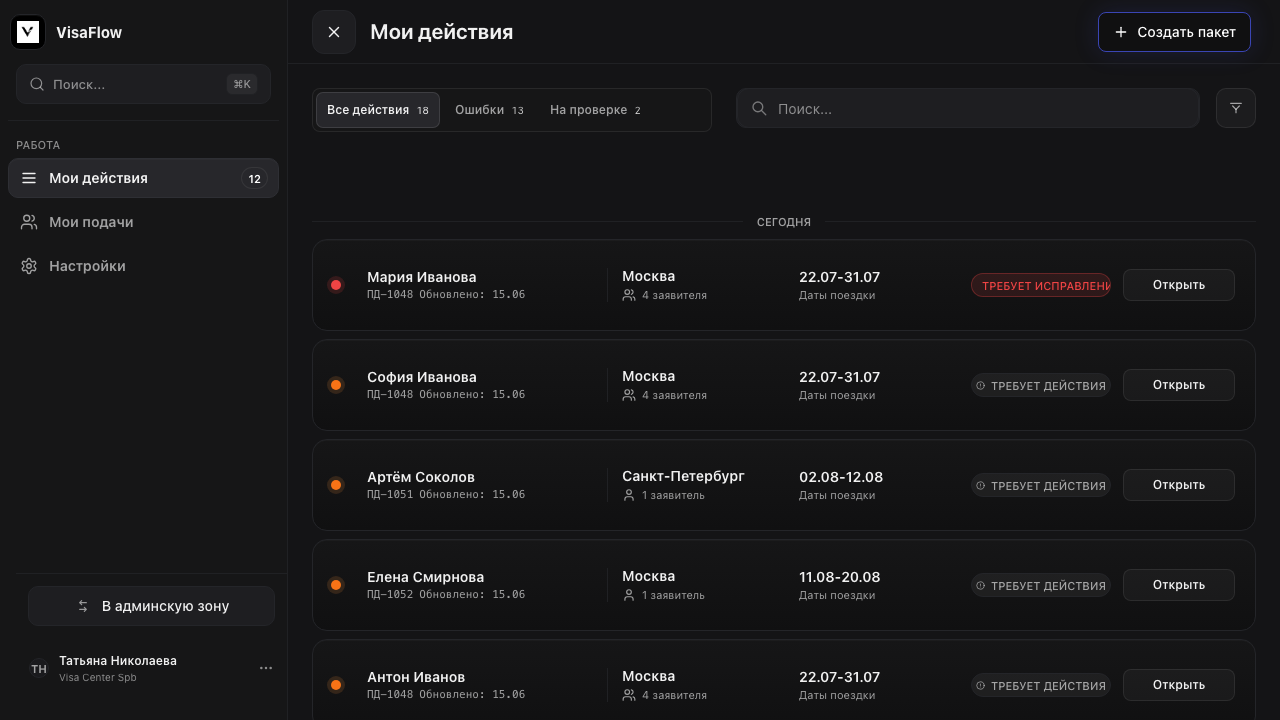
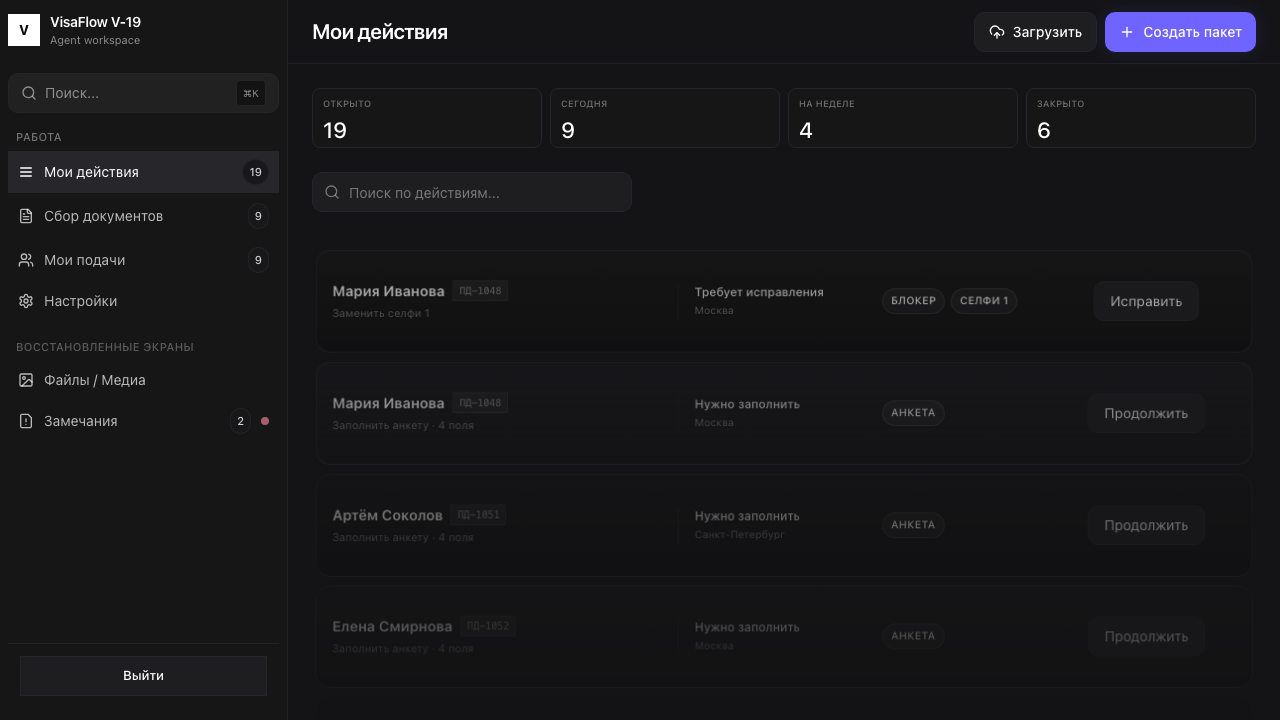
fix(release): close local performance gate proof
Что изменено:
- Отфильтрованы local-dev access requests до pending, чтобы approved/rejected заявки не возвращались в admin queue.
- Обновлены Playwright helpers под текущий AccessGate, который стартует с заявки на доступ.
- Синхронизирован agent app-smoke slice с текущей CommandCenter surface и сохранены свежие QA screenshots.

Зачем:
- Закрыть local verify:performance gate для V-19 10-user pilot path и сохранить browser proof для admin approval/settings flow.

Как:
- listPendingAccessRequests() возвращает только status === pending и сортирует по newest first.
- E2E helpers явно переключают AccessGate в нужный режим перед login/register действиями.
- Smoke assertions привязаны к текущим видимым controls/headings вместо устаревших selectors.

Проверка:
- Tests: pass
- npm run typecheck
- npx vitest run tests/unit/exportWorkbook.spec.ts tests/unit/exportService.spec.ts tests/unit/settingsScreen.spec.tsx tests/unit/authRegistration.spec.ts
- npm run build
- npm run verify:performance
- npx playwright test tests/e2e/v19-registration-admin-approval.spec.ts --project=chromium --reporter=line -g "new agent request stays pending until admin approves"
- npx playwright test tests/e2e/app-smoke.spec.ts --project=chromium --reporter=line -g "agent surfaces expose actions and submissions cockpit"
- git diff --check
- git diff --cached --check

Риск: Low
- Затронуты local-dev access queue filter и тестовые helpers/assertions; production Supabase approval path не менялся.

diff --git a/tests/e2e/app-smoke.spec.ts b/tests/e2e/app-smoke.spec.ts
@@ -763,14 +763,11 @@ test.describe("V-19 operations workspace", () => {
     await expect(page.getByRole("button", { name: "Мои подачи" })).toBeVisible();
     await expect(page.getByRole("button", { name: "Настройки" })).toBeVisible();
     await expect(page.getByText("Входящие", { exact: true })).toHaveCount(0);
-    await expect(page.getByRole("region", { name: "Мои действия" })).toBeVisible();
-    await expect(page.getByTestId("agent-actions-cockpit")).toBeVisible();
-    await expect(
-      page
-        .getByTestId("agent-action-queue-item")
-        .or(page.locator(".v19-actions-timeline-event"))
-        .first(),
-    ).toBeVisible();
+    await expect(page.locator('input[placeholder="Поиск по действиям..."]')).toBeVisible();
+    await expectAtLeastOneVisible(
+      page.getByRole("button", { name: /^(Исправить|Продолжить|Добавить)$/ }),
+      "No visible agent action CTA matched.",
+    );
     await page.screenshot({
       fullPage: true,
       path: "docs/qa/v19-agent-actions-restored-desktop.png",
@@ -779,53 +776,26 @@ test.describe("V-19 operations workspace", () => {
     await clickWorkspaceButton(page, /Мои подачи/);
     await expect(page.getByRole("heading", { name: "Мои подачи" })).toBeVisible();
     await expectAtLeastOneVisible(
-      page.getByRole("button", { name: "Новая подача" }),
+      page.getByRole("button", { name: "Создать пакет" }),
       "No visible create-submission button matched.",
     );
-    await expect(page.getByRole("tablist", { name: "Фильтр подач" })).toBeVisible();
-    await expect(page.getByRole("tab", { name: "Готово" })).toBeVisible();
-    await expect(submissionCardById(page, "ПД-1048")).toBeVisible();
-    await expectReturnedIvanovsDecisionFrame(page);
-    await expect(page.getByText("Семейные подачи")).toBeVisible();
-    await expect(page.getByText("Индивидуальные подачи")).toBeVisible();
-    await expect(submissionCard(page, "Нина Волкова")).toBeVisible();
-    await expect(submissionCard(page, "Дмитрий Орлов")).toBeVisible();
-    await selectSubmissionStatus(page, "В работе");
-    await expect(submissionCard(page, "Ивановы")).toHaveCount(0);
-    await selectSubmissionStatus(page, "Требуют действия");
-    await expect(submissionCardById(page, "ПД-1048")).toBeVisible();
-    await expect(returnedIvanovsAction(page)).toBeVisible();
-    await expect(submissionCard(page, "Ольга Морозова")).toHaveCount(0);
+    await expect(page.getByRole("heading", { level: 2, name: "Семьи" })).toBeVisible();
+    await expect(page.getByRole("heading", { level: 2, name: "Одиночные профили" })).toBeVisible();
+    await expect(page.getByRole("heading", { level: 3, name: "Ивановы" })).toBeVisible();
+    await expect(page.getByRole("heading", { level: 3, name: "Артём Соколов" })).toBeVisible();
 
     await clickWorkspaceButton(page, /Настройки/);
     await expect(
       page.getByRole("heading", { level: 1, name: "Настройки" }),
     ).toBeVisible();
     await expect(
-      page.getByRole("heading", { level: 2, name: "Уведомления" }),
+      page.getByRole("heading", { level: 2, name: "Настройки рабочего места" }),
     ).toBeVisible();
-    await page.getByLabel("Сводка по действиям").selectOption("daily");
-    await expect(page.getByText("Есть несохранённые изменения")).toBeVisible();
+    await expect(page.getByRole("button", { name: "Открыть canonical настройки" })).toBeVisible();
     if (testInfo.project.name === "chromium") {
       await page.screenshot({
         fullPage: true,
         path: "docs/qa/2026-06-21-v19-settings-dirty-desktop.png",
-      });
-    }
-    await clickWorkspaceButton(page, /Мои подачи/);
-    await expect(
-      page.getByRole("dialog", { name: "Уйти без сохранения?" }),
-    ).toBeVisible();
-    await page.getByRole("button", { name: "Остаться" }).click();
-    await expect(
-      page.getByRole("heading", { level: 1, name: "Настройки" }),
-    ).toBeVisible();
-    await page.getByRole("button", { name: "Сохранить" }).click();
-    await expect(page.getByText("Настройки сохранены")).toBeVisible();
-    if (testInfo.project.name === "chromium") {
-      await page.screenshot({
-        fullPage: true,
-        path: "docs/qa/2026-06-21-v19-role-safe-agent-settings-desktop.png",
       });
     }
 

diff --git a/tests/e2e/v19-registration-admin-approval.spec.ts b/tests/e2e/v19-registration-admin-approval.spec.ts
@@ -6,11 +6,37 @@ import {
 
 const userPassword = "secure-local-password";
 
+async function ensureLoginMode(page: Page) {
+  const loginHeading = page.getByRole("heading", { level: 1, name: "Вход" });
+  if (await loginHeading.isVisible().catch(() => false)) return;
+
+  const switchToLogin = page
+    .getByRole("button", { name: /^(Уже есть доступ\? Войти|Вернуться ко входу)$/ })
+    .first();
+  if (await switchToLogin.isVisible().catch(() => false)) {
+    await switchToLogin.click();
+  }
+
+  await expect(loginHeading).toBeVisible();
+}
+
+async function ensureRegisterMode(page: Page) {
+  const registerHeading = page.getByRole("heading", {
+    level: 1,
+    name: "Заявка на доступ",
+  });
+  if (await registerHeading.isVisible().catch(() => false)) return;
+
+  const requestAccess = page.getByRole("button", { name: "Запросить доступ" });
+  if (await requestAccess.isVisible().catch(() => false)) {
+    await requestAccess.click();
+  }
+
+  await expect(registerHeading).toBeVisible();
+}
+
 async function submitAccessRequest(page: Page, email: string) {
-  await page.getByRole("button", { name: "Запросить доступ" }).click();
-  await expect(
-    page.getByRole("heading", { level: 1, name: "Заявка на доступ" }),
-  ).toBeVisible();
+  await ensureRegisterMode(page);
   await page.getByLabel("Имя и фамилия").fill("Анна Петрова");
   await page.getByLabel("Агентство / компания").fill("Visa Test");
   await page.getByLabel("Город").fill("Москва");
@@ -30,7 +56,7 @@ async function openAccessGateForNewUser(page: Page, email: string) {
 }
 
 async function login(page: Page, email: string, password: string) {
-  await expect(page.getByRole("heading", { level: 1, name: "Вход" })).toBeVisible();
+  await ensureLoginMode(page);
   await page.getByLabel("Email").fill(email);
   await page.getByLabel("Пароль", { exact: true }).fill(password);
   await page.getByRole("button", { name: /Войти/ }).click();
@@ -57,7 +83,7 @@ async function logout(page: Page) {
     });
     await page.reload();
   }
-  await expect(page.getByRole("heading", { level: 1, name: "Вход" })).toBeVisible();
+  await ensureLoginMode(page);
 }
 
 test.describe("V-19 registration admin approval", () => {
@@ -66,7 +92,7 @@ test.describe("V-19 registration admin approval", () => {
     const userEmail = `access-gate-${Date.now()}@example.com`;
 
     await openAccessGateForNewUser(page, userEmail);
-    await expect(page.getByRole("heading", { level: 1, name: "Вход" })).toBeVisible();
+    await ensureLoginMode(page);
 
     const loginPassword = page.locator("#workspace-password");
     await expect(loginPassword).toHaveAttribute("type", "password");
@@ -89,7 +115,7 @@ test.describe("V-19 registration admin approval", () => {
     ).toBeVisible();
 
     await page.getByRole("button", { name: "Вернуться ко входу" }).click();
-    await expect(page.getByRole("heading", { level: 1, name: "Вход" })).toBeVisible();
+    await ensureLoginMode(page);
 
     await page.getByRole("button", { name: "Запросить доступ" }).click();
     await expect(
@@ -112,7 +138,7 @@ test.describe("V-19 registration admin approval", () => {
     await expect(page.getByText("Введите пароль")).toBeVisible();
 
     await page.getByRole("button", { name: "Вернуться ко входу" }).click();
-    await expect(page.getByRole("heading", { level: 1, name: "Вход" })).toBeVisible();
+    await ensureLoginMode(page);
 
     expect(browserProblems, browserProblems.join("\n")).toEqual([]);
   });
@@ -124,7 +150,7 @@ test.describe("V-19 registration admin approval", () => {
     const randomEmail = `random-${Date.now()}@example.com`;
 
     await openAccessGateForNewUser(page, userEmail);
-    await expect(page.getByRole("heading", { level: 1, name: "Вход" })).toBeVisible();
+    await ensureRegisterMode(page);
 
     await submitAccessRequest(page, userEmail);
     await expect(

diff --git a/src/shared/authRegistration.ts b/src/shared/authRegistration.ts
@@ -493,11 +493,8 @@ export class LocalDevAuthRegistrationAdapter
 
   async listPendingAccessRequests(): Promise<AccessRequest[]> {
     return [...readLocalDevState().accessRequests]
-      .sort((a, b) => {
-        if (a.status === "pending" && b.status !== "pending") return -1;
-        if (a.status !== "pending" && b.status === "pending") return 1;
-        return b.createdAt.localeCompare(a.createdAt);
-      });
+      .filter((request) => request.status === "pending")
+      .sort((a, b) => b.createdAt.localeCompare(a.createdAt));
   }
 
   async approveAccessRequest(id: string, adminId: string): Promise<User> {

diff --git a/tests/e2e/v19-pilot-helpers.ts b/tests/e2e/v19-pilot-helpers.ts
@@ -39,6 +39,13 @@ export async function openFreshWorkspace(
   }, workspaceEmail);
   await page.reload();
 
+  const switchToLogin = page.getByRole("button", {
+    name: "Уже есть доступ? Войти",
+  });
+  if (await isVisible(switchToLogin)) {
+    await switchToLogin.click();
+  }
+
   const emailField = page.locator("#workspace-email");
   if (await isVisible(emailField)) {
     try {
